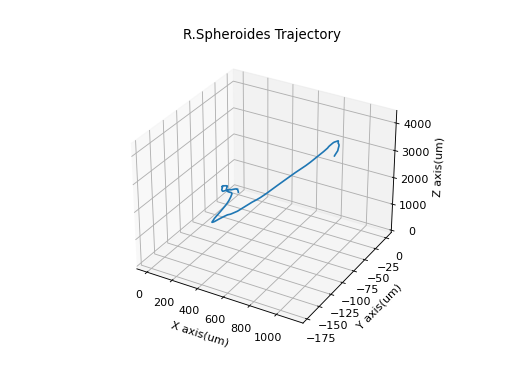
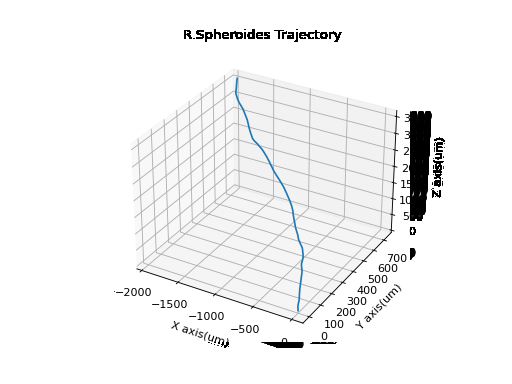
Final pre results commit. Works as desired.

Changed region(s): [[0.25, 0.1875, 0.875, 0.9062], [0.3438, 0.0625, 0.6562, 0.125], [0.2188, 0.75, 0.4375, 0.8438]]

diff --git a/Image.py b/Image.py
@@ -16,9 +16,14 @@ x_pos = []
 y_pos = []
 z_con = []
 
-no_frames = 240
+no_frames = 1000
 
-no_bugs = 3
+no_bugs = 200
+
+q = 128.0
+p = -0.01
+sigma = 2.5
+
 
 for ii in range (no_bugs):
   open_path = "/Users/alistair/Documents/Project/Scripts/Trajectories.nosync/trajectory_" + str(ii) + ".csv"
@@ -41,14 +46,11 @@ coords = []
 upper_boundary = int(1024*1.2)
 lower_boundary = int(0-(upper_boundary - 1024))
 
-q = 128
-p = -1*np.sqrt(q)
 
-sigma = 5.0
 #Set up image array and reserve memory using np.zeros()
 x, y = 1024, 1024
 data = np.zeros((x, y, 3), dtype=np.uint8)
-width = 5.0 #width in microns
+width = 5.0 #width of image in microns
 ppm = float(x)/width #Calculate pixels per micron
 
 
@@ -57,7 +59,7 @@ for i in range(no_frames):
      #Calculate x and y positions by converting array position to pixel values
      x_pos.append(int((x_vals[ii][i]*ppm)+512))
      y_pos.append(int((y_vals[ii][i]*ppm)+512))
-     z_con.append(int(np.sqrt(z_vals[ii][i]*z_vals[ii][i]+2.0*z_vals[ii][i]*p+p*p)+q))
+     z_con.append((p*z_vals[ii][i]*z_vals[ii][i])+q)
 
     #Periodic boudnary conditions - 20% buffer either side, will reenter opposite side of array.
     #Check logic - code seems good
@@ -72,18 +74,30 @@ for i in range(no_frames):
     #coordinates = np.array([i, x_pos, y_pos], dtype=object)
     #coords.append(x_pos)
 
-    for j in range(x):
-        for k in range(y):
-            val = 0
-            for kk in range (len(x_pos)):
-              val += z_con[kk]*math.exp(-((j-x_pos[kk])*(j-x_pos[kk]))/(2.0 * sigma * sigma)) * math.exp(-((k-y_pos[kk])*(k-y_pos[kk]))/(2.0 * sigma * sigma))
-            data[j,k] = [val,val,val]
-            #print("test_3")
 
-    #Values are inserted into array for bliue square, will change with functions
-    #to iterate over array and assign colour values normally
-    #data[x_lower:x_upper, y_lower:y_upper] = [0, 0, 255] # blue patch
+    for ll in range (len(x_pos)):
+
+     x_max = x_pos[ll] + 10
+     x_min = x_pos[ll] - 10
+     y_max = y_pos[ll] + 10
+     y_min = y_pos[ll] - 10
+     for j in range(x_min, x_max):
+        for k in range(y_min, y_max):
+          val = 0
+          for kk in range(len(x_pos)):
+             val += z_con[kk]*math.exp(-((j-x_pos[kk])*(j-x_pos[kk]))/(2.0 * sigma * sigma)) * math.exp(-((k-y_pos[kk])*(k-y_pos[kk]))/(2.0 * sigma * sigma))
+             if val > 255.0:
+              val = 255.0
+             elif val < 0:
+              val = 0.0
+          data[j,k] = [val,val,val]
+
+
     #Image creation code
+    for xx in range(x):
+        for yy in range(y):
+            data[xx,yy] = (data[xx,yy]*-1) + 255
+
     im= Image.fromarray(data)
     im.save("/Users/alistair/Documents/Project/Scripts/Frames.nosync/Frame_" + str(i) + ".png")
     #Reset array to zero after each image to avoid artefacts from previous iteration.

diff --git a/R.sphaeroides3.py b/R.sphaeroides3.py
@@ -7,7 +7,7 @@ import math
 from numpy import savetxt
 import pandas as pd
 
-Particles = 5
+Particles = 200
 
 for l in range(Particles):
 
@@ -204,10 +204,8 @@ for l in range(Particles):
  pos_arr = np.array([Time,xpos_arr, ypos_arr, zpos_arr])
  pos_arr = pos_arr.T
  df = pd.DataFrame(pos_arr, columns = ["Time(S)", "X", "Y", "Z"])
- path = "/Users/alistair/Documents/Project/Scripts/Trajectories/trajectory_" + str(l) + ".csv"
+ path = "/Users/alistair/Documents/Project/Scripts/Trajectories.nosync/trajectory_" + str(l) + ".csv"
  df.to_csv(path, sep="\t")
-
- print("Run", str(l), "complete")
 
  #Mean_S_Ang_Disp=MAD(angles)
  #Mean_Ang_Disp=np.sqrt(Mean_S_Ang_Disp)
